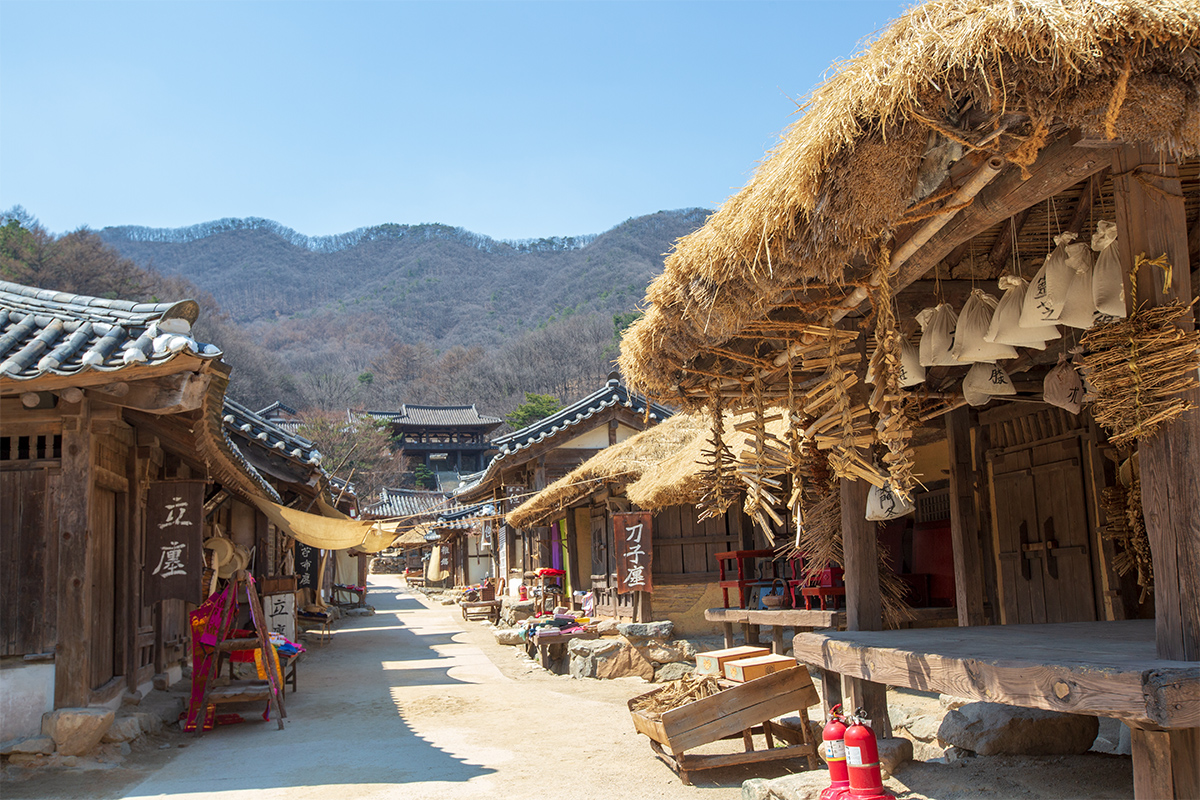
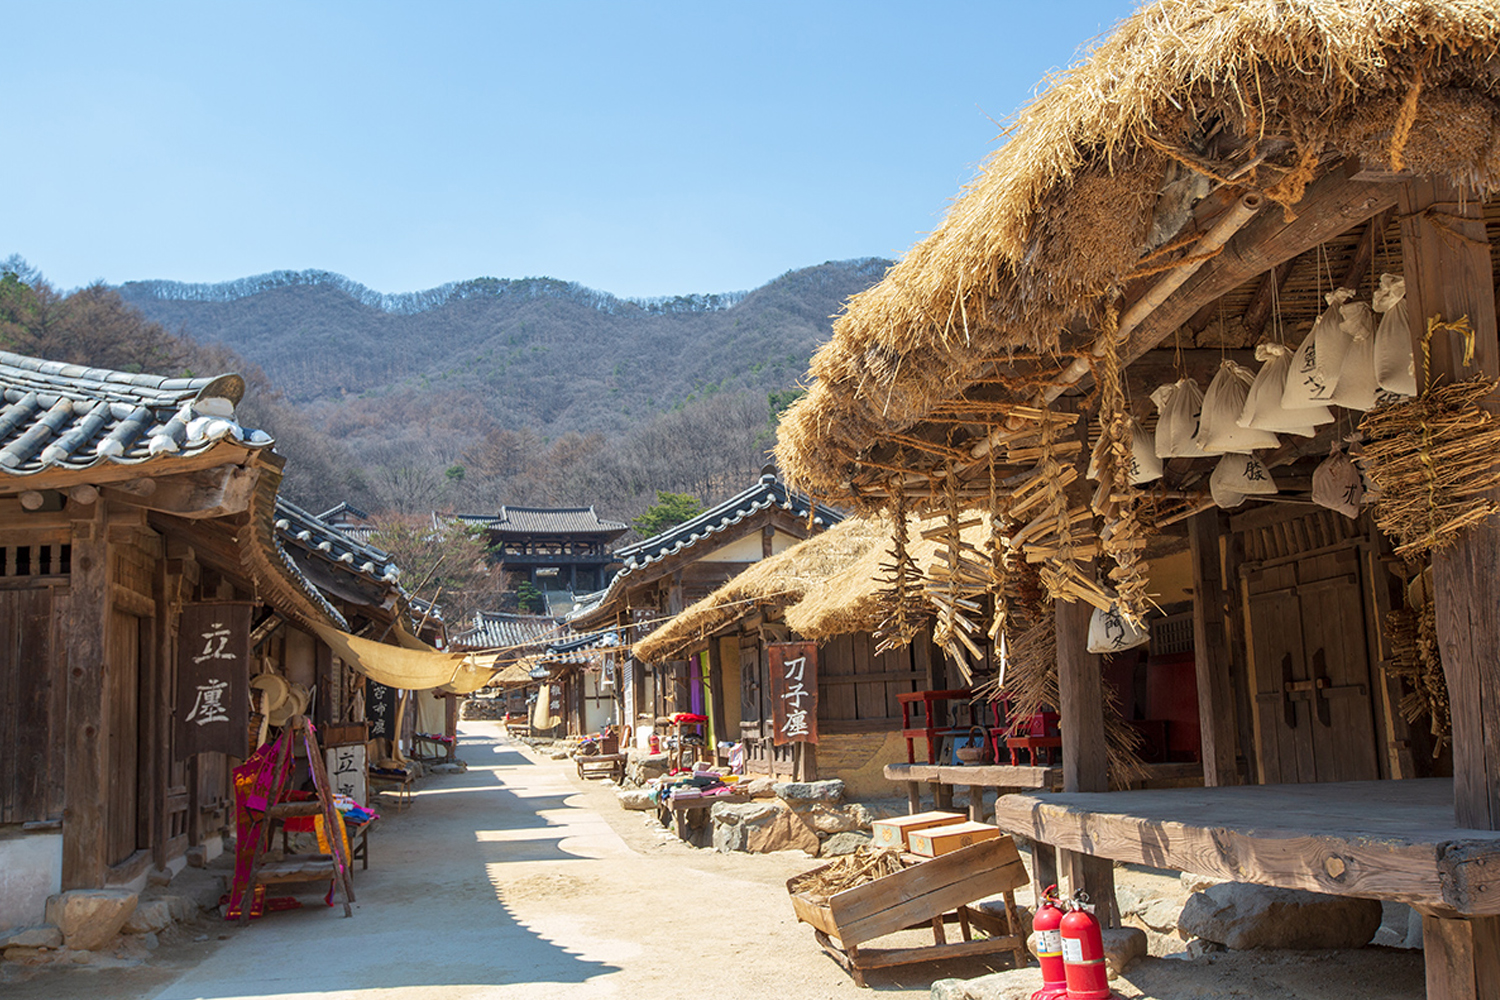
[정혜진] 1. 스테이지에 따라 배경이 변경되도록 수정 2. 배경화면 사이즈 키움

diff --git a/src/com/newlecture/mosquito/service/StageService.java b/src/com/newlecture/mosquito/service/StageService.java
@@ -38,7 +38,6 @@ public class StageService {
 	private int buttCreateCount;
 	private int buttCreateTime;
 	
-
 			
 	private GameOver gameOver;
 	private GameClear gameClear;
@@ -49,9 +48,10 @@ public class StageService {
 	private boolean isGameClear;
 	private boolean isGameOver;
 	
+	private Image background;
 	
 	public StageService() {
-		this(1);
+		this(3);
 	}
 	
 	public StageService(int stageStep) {
@@ -103,6 +103,8 @@ public class StageService {
 		buttCreateCount = stage.getButtCreateCount();
 		buttCreateTime = stage.getButtCreateTime() * 60;			// 60FPS라서 60을 곱함
 		createButterfly();
+		
+		background = ImageLoader.stageBackgrounds[stageIndex-1];
 	}
 
 	public void setScore() {
@@ -306,9 +308,13 @@ public class StageService {
 		this.isGameOver = isGameOver;
 	}
 
-	
+	public Image getBackground() {
+		return background;
+	}
 
-	
+	public void setBackground(Image background) {
+		this.background = background;
+	}
 	
 	
 }

diff --git a/src/com/newlecture/mosquito/canvas/StageCanvas.java b/src/com/newlecture/mosquito/canvas/StageCanvas.java
@@ -405,7 +405,7 @@ import com.newlecture.mosquito.weapon.Weapon;
 	      Image buf = this.createImage(this.getWidth(), this.getHeight());
 	      Graphics bg = buf.getGraphics();
 	      // 배경 그려주세요
-	      bg.drawImage(background, 0, 0, null);
+		  bg.drawImage(stageService.getBackground(), 0, 0, null);
 	      
 	      // 스테이지 텍스트 전시
 	      {
